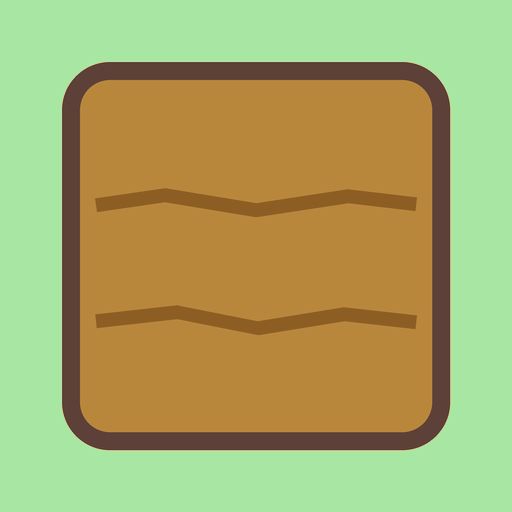
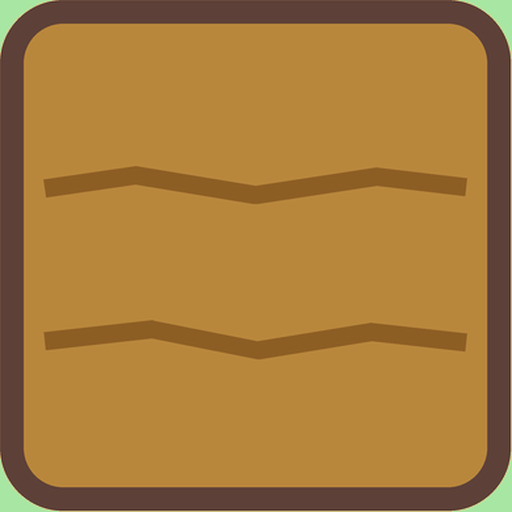
조작 방식 설정(조이스틱/방향키 선택) + 벽·문 타일 캔버스 꽉 차게 스트레치

diff --git a/lib/ui/widgets/dpad.dart b/lib/ui/widgets/dpad.dart
@@ -1,0 +1,101 @@
+/// 십자 방향키 — 설정에서 조이스틱 대신 선택할 수 있는 조작 방식.
+///
+/// 자체 반복 타이머는 없다. 누르는 동안 onDirDown, 떼면 onRelease를 불러
+/// 게임 화면의 연속 이동(홀드 등속)이 조이스틱과 동일하게 걸린다.
+library;
+
+import 'package:flutter/material.dart';
+
+import '../../engine/geometry.dart';
+import '../theme.dart';
+
+const double _kBtn = 72;
+const double _kIcon = 44;
+
+class DPad extends StatelessWidget {
+  final void Function(Dir) onDirDown;
+  final VoidCallback onRelease;
+  const DPad({required this.onDirDown, required this.onRelease, super.key});
+
+  Widget _btn(IconData icon, Dir d) =>
+      _DPadButton(icon: icon, onDown: () => onDirDown(d), onUp: onRelease);
+
+  @override
+  Widget build(BuildContext context) {
+    return Column(
+      mainAxisSize: MainAxisSize.min,
+      children: [
+        _btn(Icons.keyboard_arrow_up_rounded, Dir.up),
+        Row(
+          mainAxisSize: MainAxisSize.min,
+          children: [
+            _btn(Icons.keyboard_arrow_left_rounded, Dir.left),
+            const SizedBox(width: _kBtn),
+            _btn(Icons.keyboard_arrow_right_rounded, Dir.right),
+          ],
+        ),
+        _btn(Icons.keyboard_arrow_down_rounded, Dir.down),
+      ],
+    );
+  }
+}
+
+class _DPadButton extends StatefulWidget {
+  final IconData icon;
+  final VoidCallback onDown;
+  final VoidCallback onUp;
+  const _DPadButton(
+      {required this.icon, required this.onDown, required this.onUp});
+
+  @override
+  State<_DPadButton> createState() => _DPadButtonState();
+}
+
+class _DPadButtonState extends State<_DPadButton> {
+  bool _pressed = false;
+
+  void _down(PointerDownEvent _) {
+    setState(() => _pressed = true);
+    widget.onDown();
+  }
+
+  void _up() {
+    if (!_pressed) return;
+    setState(() => _pressed = false);
+    widget.onUp();
+  }
+
+  @override
+  Widget build(BuildContext context) {
+    return Listener(
+      onPointerDown: _down,
+      onPointerUp: (_) => _up(),
+      onPointerCancel: (_) => _up(),
+      behavior: HitTestBehavior.opaque,
+      child: Padding(
+        padding: const EdgeInsets.all(4),
+        child: Container(
+          width: _kBtn,
+          height: _kBtn,
+          decoration: BoxDecoration(
+            color: _pressed
+                ? PiyakColors.chickYellow
+                : Colors.white.withValues(alpha: 0.9),
+            borderRadius: BorderRadius.circular(18),
+            border: Border.all(color: PiyakColors.outline, width: 2.5),
+            boxShadow: _pressed
+                ? const []
+                : const [
+                    BoxShadow(
+                      color: Color(0x335D4037),
+                      offset: Offset(0, 4),
+                      blurRadius: 0,
+                    ),
+                  ],
+          ),
+          child: Icon(widget.icon, size: _kIcon, color: PiyakColors.outline),
+        ),
+      ),
+    );
+  }
+}

diff --git a/lib/ui/screens/game_screen.dart b/lib/ui/screens/game_screen.dart
@@ -14,6 +14,7 @@ import '../theme.dart';
 import '../widgets/act_background.dart';
 import '../widgets/board_view.dart';
 import '../widgets/clear_popup.dart';
+import '../widgets/dpad.dart';
 import '../widgets/hud.dart';
 import '../widgets/joystick.dart';
 import '../widgets/speech_bubble.dart';
@@ -37,6 +38,9 @@ class GameScreen extends StatefulWidget {
   /// 팝업을 그리는 시점에 호출된다 — 이 스테이지의 별이 저장된 뒤라야
   /// 다음 챕터 해금 여부를 정확히 판정할 수 있기 때문이다.
   final ClearOutcome Function()? clearOutcome;
+
+  /// 설정의 조작 방식 — true면 십자 방향키, false면 조이스틱.
+  final bool useDpad;
   const GameScreen({
     required this.level,
     this.onNext,
@@ -44,6 +48,7 @@ class GameScreen extends StatefulWidget {
     this.hintProvider,
     this.onEvents,
     this.clearOutcome,
+    this.useDpad = false,
     super.key,
   });
 
@@ -229,7 +234,11 @@ class _GameScreenState extends State<GameScreen> {
                 ),
                 SizedBox(
                   height: 180,
-                  child: Joystick(onDir: holdDir, onRelease: releaseDir),
+                  child: widget.useDpad
+                      ? Center(
+                          child:
+                              DPad(onDirDown: holdDir, onRelease: releaseDir))
+                      : Joystick(onDir: holdDir, onRelease: releaseDir),
                 ),
               ],
             ),

diff --git a/lib/ui/screens/settings_screen.dart b/lib/ui/screens/settings_screen.dart
@@ -30,6 +30,30 @@ class SettingsScreen extends StatelessWidget {
             value: save.soundOn,
             onChanged: (v) => save.setSoundOn(v),
           ),
+          const Padding(
+            padding: EdgeInsets.fromLTRB(16, 16, 16, 4),
+            child: Text(S.controlScheme,
+                style: TextStyle(
+                    fontWeight: FontWeight.bold, color: PiyakColors.outline)),
+          ),
+          RadioGroup<bool>(
+            groupValue: save.dpadOn,
+            onChanged: (v) => save.setDpadOn(v ?? false),
+            child: const Column(
+              children: [
+                RadioListTile<bool>(
+                  title: Text(S.ctlJoystick,
+                      style: TextStyle(color: PiyakColors.outline)),
+                  value: false,
+                ),
+                RadioListTile<bool>(
+                  title: Text(S.ctlDpad,
+                      style: TextStyle(color: PiyakColors.outline)),
+                  value: true,
+                ),
+              ],
+            ),
+          ),
           const SizedBox(height: 24),
           OutlinedButton.icon(
             icon: const Icon(Icons.delete_outline_rounded, color: Colors.red),

diff --git a/test/services/save_service_test.dart b/test/services/save_service_test.dart
@@ -62,17 +62,17 @@ void main() {
     expect(s.totalStars, 8);
   });
 
-  test('설정 토글과 초기화 (방향키는 기본 켜짐)', () async {
+  test('설정 토글과 초기화 (조작은 조이스틱이 기본)', () async {
     final s = await SaveService.load();
     expect(s.soundOn, true);
-    expect(s.dpadOn, true); // 스와이프보다 방향키가 기본
+    expect(s.dpadOn, false); // 기본 조이스틱, 설정에서 방향키 선택 가능
     await s.setSoundOn(false);
-    await s.setDpadOn(false);
+    await s.setDpadOn(true);
     expect(s.soundOn, false);
-    expect(s.dpadOn, false);
+    expect(s.dpadOn, true);
     await s.resetAll();
     expect(s.soundOn, true);
-    expect(s.dpadOn, true);
+    expect(s.dpadOn, false);
     expect(s.starsOf('c1s01'), 0);
   });
 }

diff --git a/lib/ui/strings.dart b/lib/ui/strings.dart
@@ -44,6 +44,9 @@ abstract final class S {
 
   static const soundOn = '소리';
   static const joystickHint = '아무 데나 누르고 기울여 보세요';
+  static const controlScheme = '조작 방식';
+  static const ctlJoystick = '조이스틱 — 아무 데나 눌러서 기울이기';
+  static const ctlDpad = '방향키 — 십자 버튼 누르기';
   static const resetAll = '진행 기록 지우기';
   static const resetConfirm = '정말 모든 기록을 지울까요?';
   static const cancel = '취소';

diff --git a/lib/services/save_service.dart b/lib/services/save_service.dart
@@ -55,8 +55,8 @@ class SaveService extends ChangeNotifier {
   // ── 설정
   bool get soundOn => _p.getBool('opt.sound') ?? true;
 
-  /// 실기기 테스트 결과 스와이프가 불편하다는 피드백 → 방향키가 기본.
-  bool get dpadOn => _p.getBool('opt.dpad') ?? true;
+  /// 조작 방식 — true면 십자 방향키, false면 조이스틱(기본).
+  bool get dpadOn => _p.getBool('opt.dpad') ?? false;
 
   Future<void> setSoundOn(bool v) async {
     await _p.setBool('opt.sound', v);

diff --git a/lib/ui/screens/stage_screen.dart b/lib/ui/screens/stage_screen.dart
@@ -26,6 +26,7 @@ class StageScreen extends StatelessWidget {
     return piyakRoute(GameScreen(
       key: ValueKey(level.id),
       level: level,
+      useDpad: save.dpadOn,
       hintProvider: (c) => hintFor(c.board),
       onEvents: sound.playForEvents,
       onCleared: (stars) => save.setStars(level.id, stars),

diff --git a/test/ui/game_screen_test.dart b/test/ui/game_screen_test.dart
@@ -127,7 +127,7 @@ void main() {
           level: lv(['#####', '#@\$o#', '#####'], optimal: 1, id: 'c1s01')),
     ));
     await tester.pump();
-    expect(find.textContaining('스와이프'), findsOneWidget);
+    expect(find.textContaining('기울여서'), findsOneWidget);
     await cleanup(tester);
   });
 }

diff --git a/lib/ui/screens/daily_screen.dart b/lib/ui/screens/daily_screen.dart
@@ -35,6 +35,7 @@ class DailyScreen extends StatelessWidget {
       context,
       piyakRoute(GameScreen(
         level: level,
+        useDpad: save.dpadOn,
         hintProvider: (c) => hintFor(c.board),
         onEvents: sound.playForEvents,
         onCleared: (_) => save.setDailyCleared(today),

diff --git a/tool/fill_tiles.py b/tool/fill_tiles.py
@@ -1,0 +1,42 @@
+# -*- coding: utf-8 -*-
+"""벽·문 타일의 그림을 캔버스 꽉 차게 늘린다.
+
+codex가 준 벽·문 그림은 캔버스 안에 여백을 두고 그려져 있어서, 보드에 깔면
+벽끼리 떨어져 보인다. 내용물(배경색과 다른 픽셀)의 경계 상자를 찾아 잘라내고
+512×512로 다시 늘려 이웃 타일과 붙어 보이게 한다.
+
+    python tool/fill_tiles.py
+"""
+import os
+
+from PIL import Image
+
+TILES = os.path.join(os.path.dirname(__file__), "..", "assets", "images", "tiles")
+TARGETS = ["tile_wall.png", "tile_door_pink.png", "tile_door_blue.png"]
+TOL2 = 40 * 40  # 배경으로 보는 색 거리(제곱)
+
+
+def content_bbox(im, bg):
+    w, h = im.size
+    px = im.load()
+    x0, y0, x1, y1 = w, h, -1, -1
+    for y in range(h):
+        for x in range(w):
+            r, g, b = px[x, y][:3]
+            d2 = (r - bg[0]) ** 2 + (g - bg[1]) ** 2 + (b - bg[2]) ** 2
+            if d2 > TOL2:
+                if x < x0: x0 = x
+                if x > x1: x1 = x
+                if y < y0: y0 = y
+                if y > y1: y1 = y
+    return (x0, y0, x1 + 1, y1 + 1)
+
+
+for name in TARGETS:
+    p = os.path.join(TILES, name)
+    im = Image.open(p).convert("RGBA")
+    bg = im.load()[0, 0][:3]
+    box = content_bbox(im, bg)
+    out = im.crop(box).resize(im.size, Image.LANCZOS)
+    out.save(p)
+    print(f"{name}: {box} -> 512x512")
